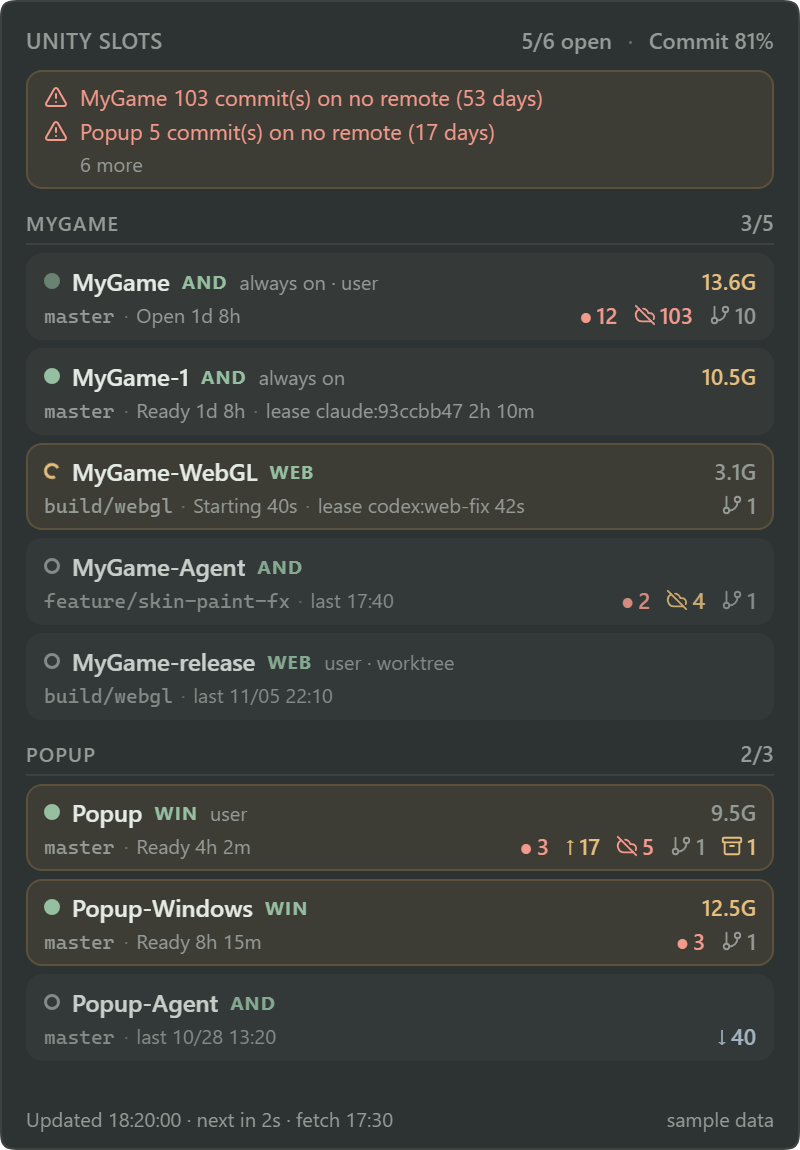
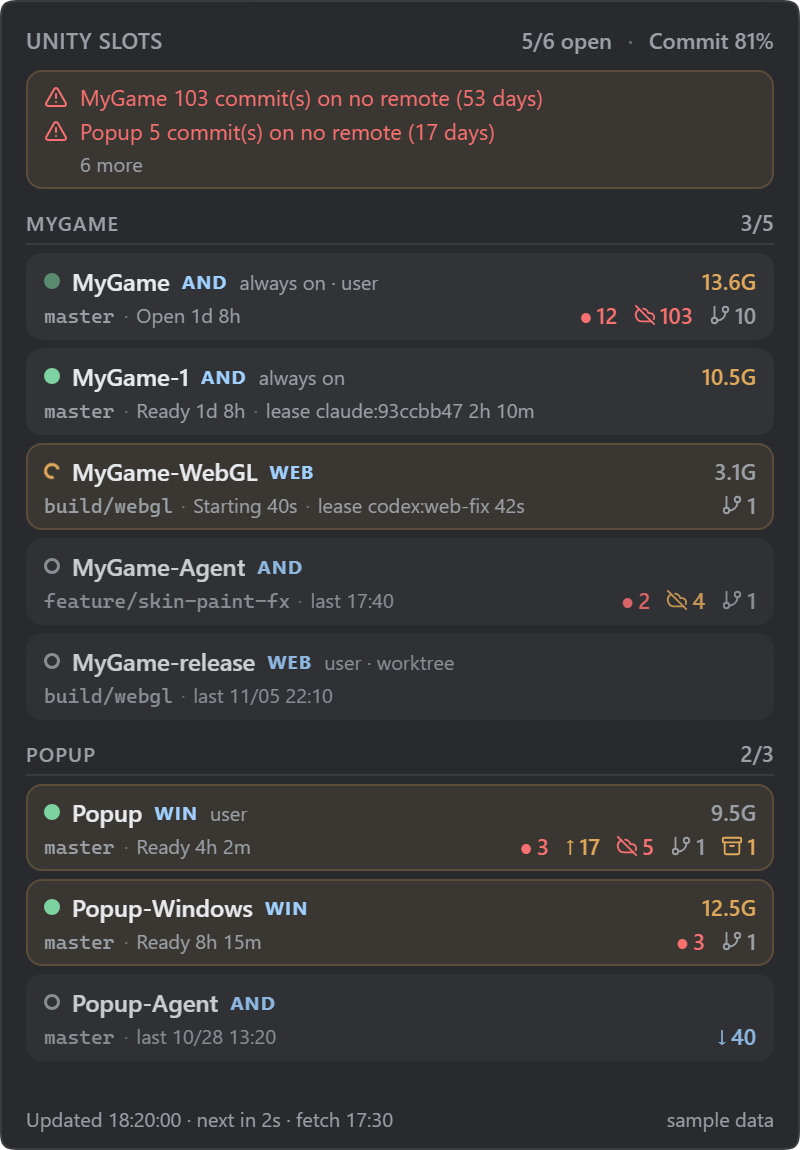
문서 - README 스크린샷을 새 색으로 다시 찍고 라이트 테마 설명을 파란색 강조로 수정

diff --git a/README.en.md b/README.en.md
@@ -55,7 +55,7 @@ The right-click menu has Settings, Refresh, **Copy cleanup request**, Recent eve
 With a light system theme the widget turns light too. The text comes in Korean and English and follows the system language by default.
 
 <p align="center">
-  <img src="docs/assets/widget-light.png" width="400" alt="The widget in the light theme: the same slot list on a light background with sage accents">
+  <img src="docs/assets/widget-light.png" width="400" alt="The widget in the light theme: the same slot list on a light background with blue accents">
 </p>
 
 ## How it works

diff --git a/README.md b/README.md
@@ -55,7 +55,7 @@
 시스템이 라이트 테마면 위젯도 라이트로 바뀝니다. 화면 글자는 한국어·영어 두 벌이고, 기본은 시스템 언어를 따릅니다.
 
 <p align="center">
-  <img src="docs/assets/widget-light.png" width="400" alt="라이트 테마의 위젯: 같은 슬롯 목록이 밝은 배경과 세이지 색 강조로 보인다">
+  <img src="docs/assets/widget-light.png" width="400" alt="라이트 테마의 위젯: 같은 슬롯 목록이 밝은 배경과 파란색 강조로 보인다">
 </p>
 
 ## 어떻게 동작하나
